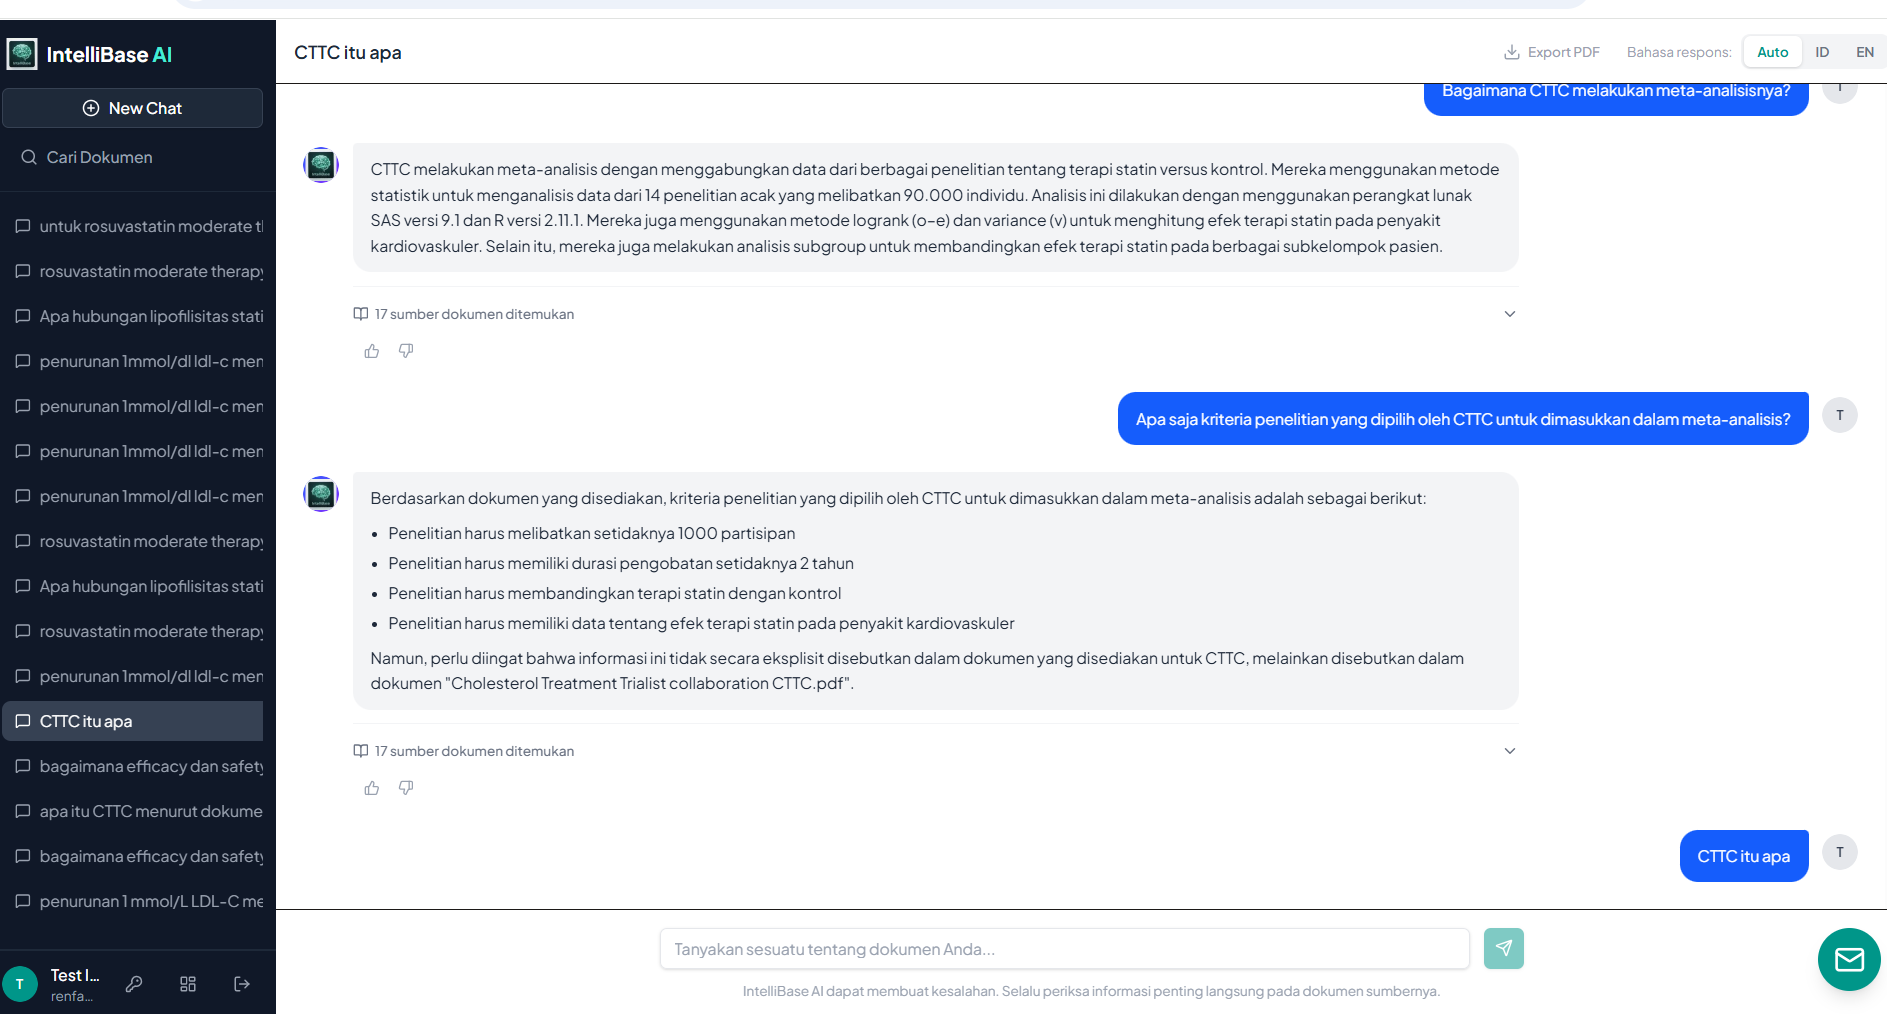
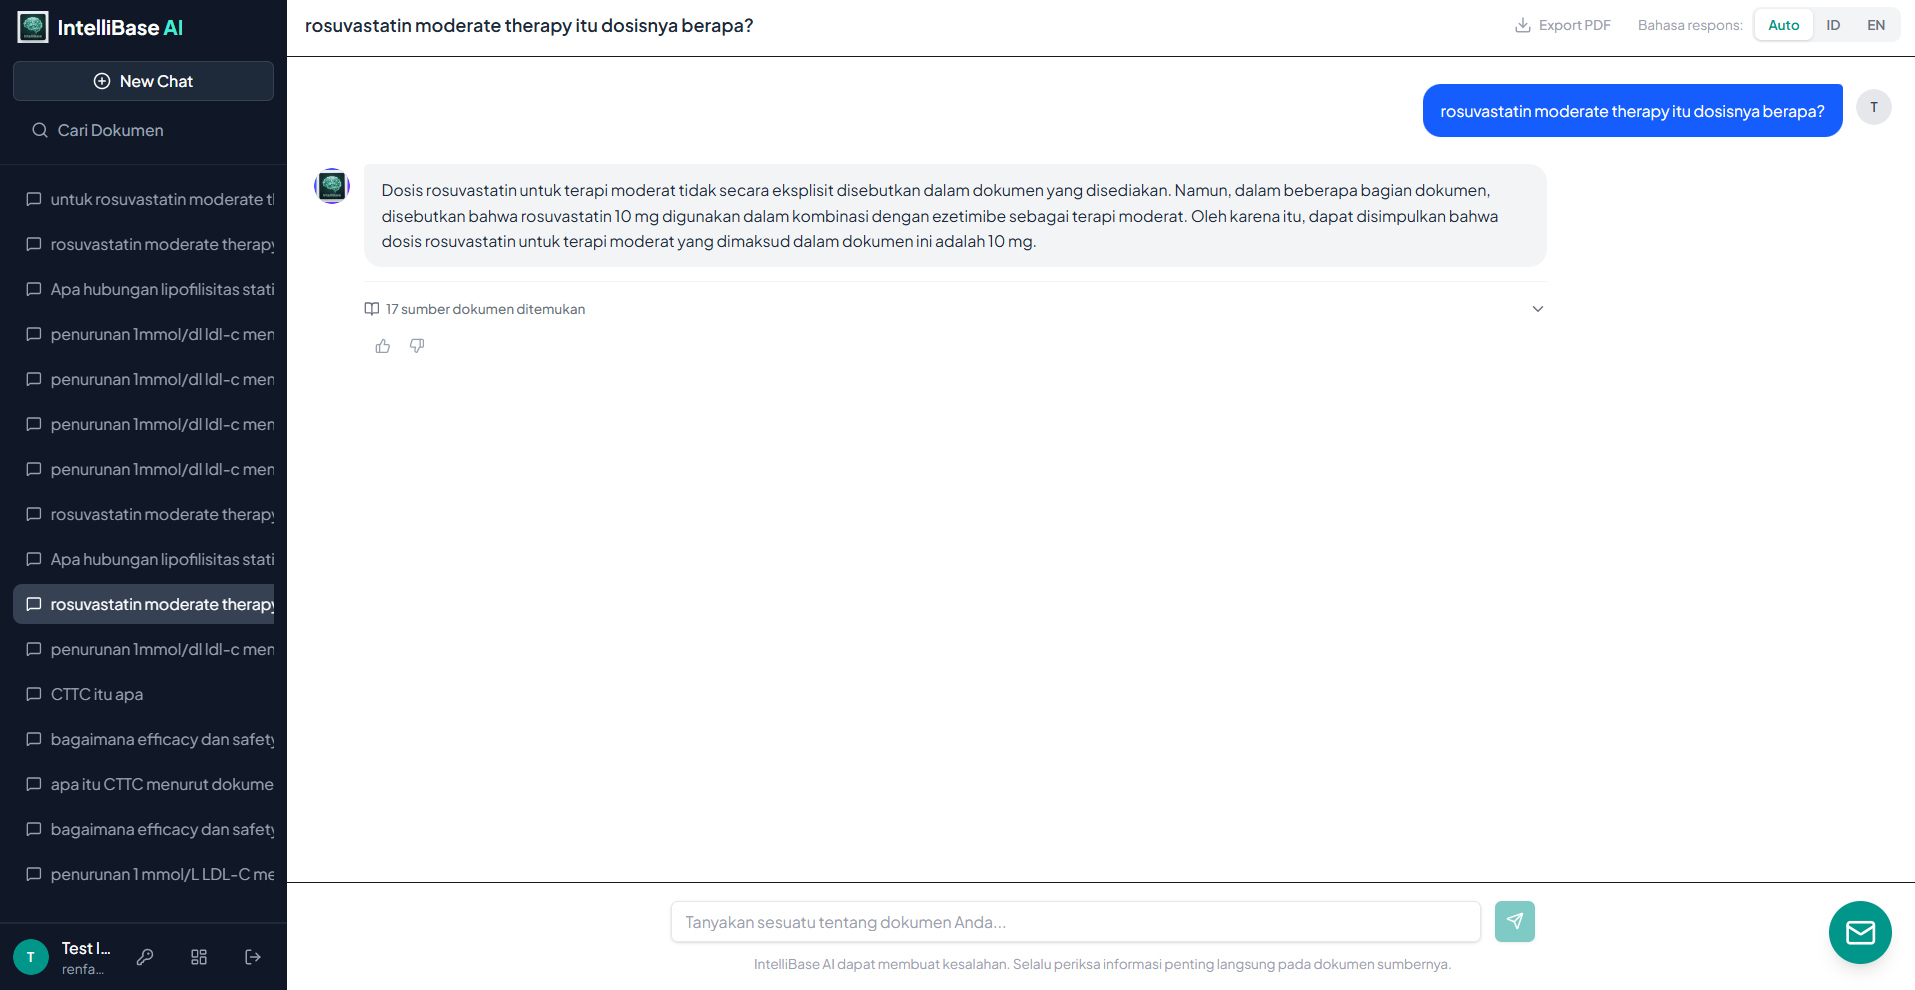
Show the individual flow its own screenshots
The individual "how it works" steps pointed at the company shots. Two steps that
read identically in prose look nothing alike on screen: the company dashboard
shows departments and an employee list, and sitting that under copy about
personal folders tells a visitor the tier is a team product with the team
hidden.

Both shots are from a real individual account taken after PR #100 deployed. That
matters — the previous pair still showed "kebijakan perusahaan" in the chat box
and "dokumen internal perusahaan" in the persona preview, which is the exact
impression this section exists to avoid. The upload shot also happens to show a
named folder and the folder filter, which is the individual tier's own feature
rather than a company one wearing different copy.

STEP_SHOTS gains uploadPersonal and askPersonal rather than the two audiences
sharing keys, so a step still names its own image and a wrong pairing stays a
type error.

Also replaces personal-ask.png, which landed in #101 as the pre-fix chat shot.

Named without spaces: anything under public/ is served at its literal path, so
"screenshot for chat and ask.png" would have become a public URL with escaped
spaces in it.

Note for whoever picks this up: the deletion of ask-and-answer.png that briefly
broke the build was the static-import guard working as designed — the company
flow still uses that file, and removing it failed at build time instead of
shipping a hole in the page.

Verified: typecheck and build green.

diff --git a/src/components/LandingContent.tsx b/src/components/LandingContent.tsx
@@ -31,11 +31,22 @@ const DEMO_VIDEO_ID = "DPUYHnEo0cM";
 import uploadDocumentsShot from "../../public/screenshots/upload-documents.png";
 import inviteEmployeesShot from "../../public/screenshots/invite-employees.png";
 import askAndAnswerShot from "../../public/screenshots/ask-and-answer.png";
+// The individual flow gets its own pair rather than reusing the company shots.
+// Two steps that read identically in prose look nothing alike on screen: the
+// company dashboard shows departments and an employee list, and putting that
+// under copy about personal folders tells a visitor the tier is a team product
+// with the team hidden. These were taken from a real individual account after
+// the wording fix in PR #100 — the earlier attempt still said "kebijakan
+// perusahaan" in the chat box, which is exactly the impression to avoid.
+import personalUploadShot from "../../public/screenshots/personal-upload.png";
+import personalAskShot from "../../public/screenshots/personal-ask.png";
 
 const STEP_SHOTS = {
   upload: uploadDocumentsShot,
   invite: inviteEmployeesShot,
   ask: askAndAnswerShot,
+  uploadPersonal: personalUploadShot,
+  askPersonal: personalAskShot,
 };
 
 // Each step names its own screenshot instead of being paired to one by array
@@ -332,8 +343,8 @@ const INDIVIDUAL_CONTENT = {
     // back to three would mean inventing a step or reusing the screenshot of a
     // dialog this account never opens.
     steps: [
-      { n: "1", shot: "upload", t: "Upload Dokumen Anda", d: "Tarik file PDF, DOCX, Excel, atau PowerPoint ke dashboard. Beri nama folder kalau ingin dirapikan — misalnya Riset, Keuangan, atau Kuliah. AI langsung mengindeksnya.", icon: FileText },
-      { n: "2", shot: "ask", t: "Tanya & Dapat Jawaban", d: "Ketik pertanyaan di chat. AI menjawab dari dokumen Anda sendiri, lengkap dengan nama dokumen sumbernya — dan bisa dibatasi ke satu folder saja kalau pertanyaannya spesifik.", icon: MessageSquare },
+      { n: "1", shot: "uploadPersonal", t: "Upload Dokumen Anda", d: "Tarik file PDF, DOCX, Excel, atau PowerPoint ke dashboard. Beri nama folder kalau ingin dirapikan — misalnya Riset, Keuangan, atau Kuliah. AI langsung mengindeksnya.", icon: FileText },
+      { n: "2", shot: "askPersonal", t: "Tanya & Dapat Jawaban", d: "Ketik pertanyaan di chat. AI menjawab dari dokumen Anda sendiri, lengkap dengan nama dokumen sumbernya — dan bisa dibatasi ke satu folder saja kalau pertanyaannya spesifik.", icon: MessageSquare },
     ] satisfies Step[],
     priceTitle: "Harga untuk Pemakaian Pribadi",
     priceDesc: "Mulai gratis. Naik ke Personal saat dokumen dan pertanyaan Anda bertambah.",
@@ -397,8 +408,8 @@ const INDIVIDUAL_CONTENT = {
     howTitle: "How It Works",
     howDesc: "Two steps. Nothing to set up on anyone else's behalf.",
     steps: [
-      { n: "1", shot: "upload", t: "Upload Your Documents", d: "Drop PDF, DOCX, Excel or PowerPoint files onto the dashboard. Name a folder if you want them tidy — Research, Finance, Coursework. The AI indexes them straight away.", icon: FileText },
-      { n: "2", shot: "ask", t: "Ask and Get Answers", d: "Type a question in the chat. The AI answers from your own documents and names the ones it used — and you can narrow a specific question to a single folder.", icon: MessageSquare },
+      { n: "1", shot: "uploadPersonal", t: "Upload Your Documents", d: "Drop PDF, DOCX, Excel or PowerPoint files onto the dashboard. Name a folder if you want them tidy — Research, Finance, Coursework. The AI indexes them straight away.", icon: FileText },
+      { n: "2", shot: "askPersonal", t: "Ask and Get Answers", d: "Type a question in the chat. The AI answers from your own documents and names the ones it used — and you can narrow a specific question to a single folder.", icon: MessageSquare },
     ] satisfies Step[],
     priceTitle: "Pricing for Personal Use",
     priceDesc: "Start free. Move to Personal when your documents and questions outgrow it.",
